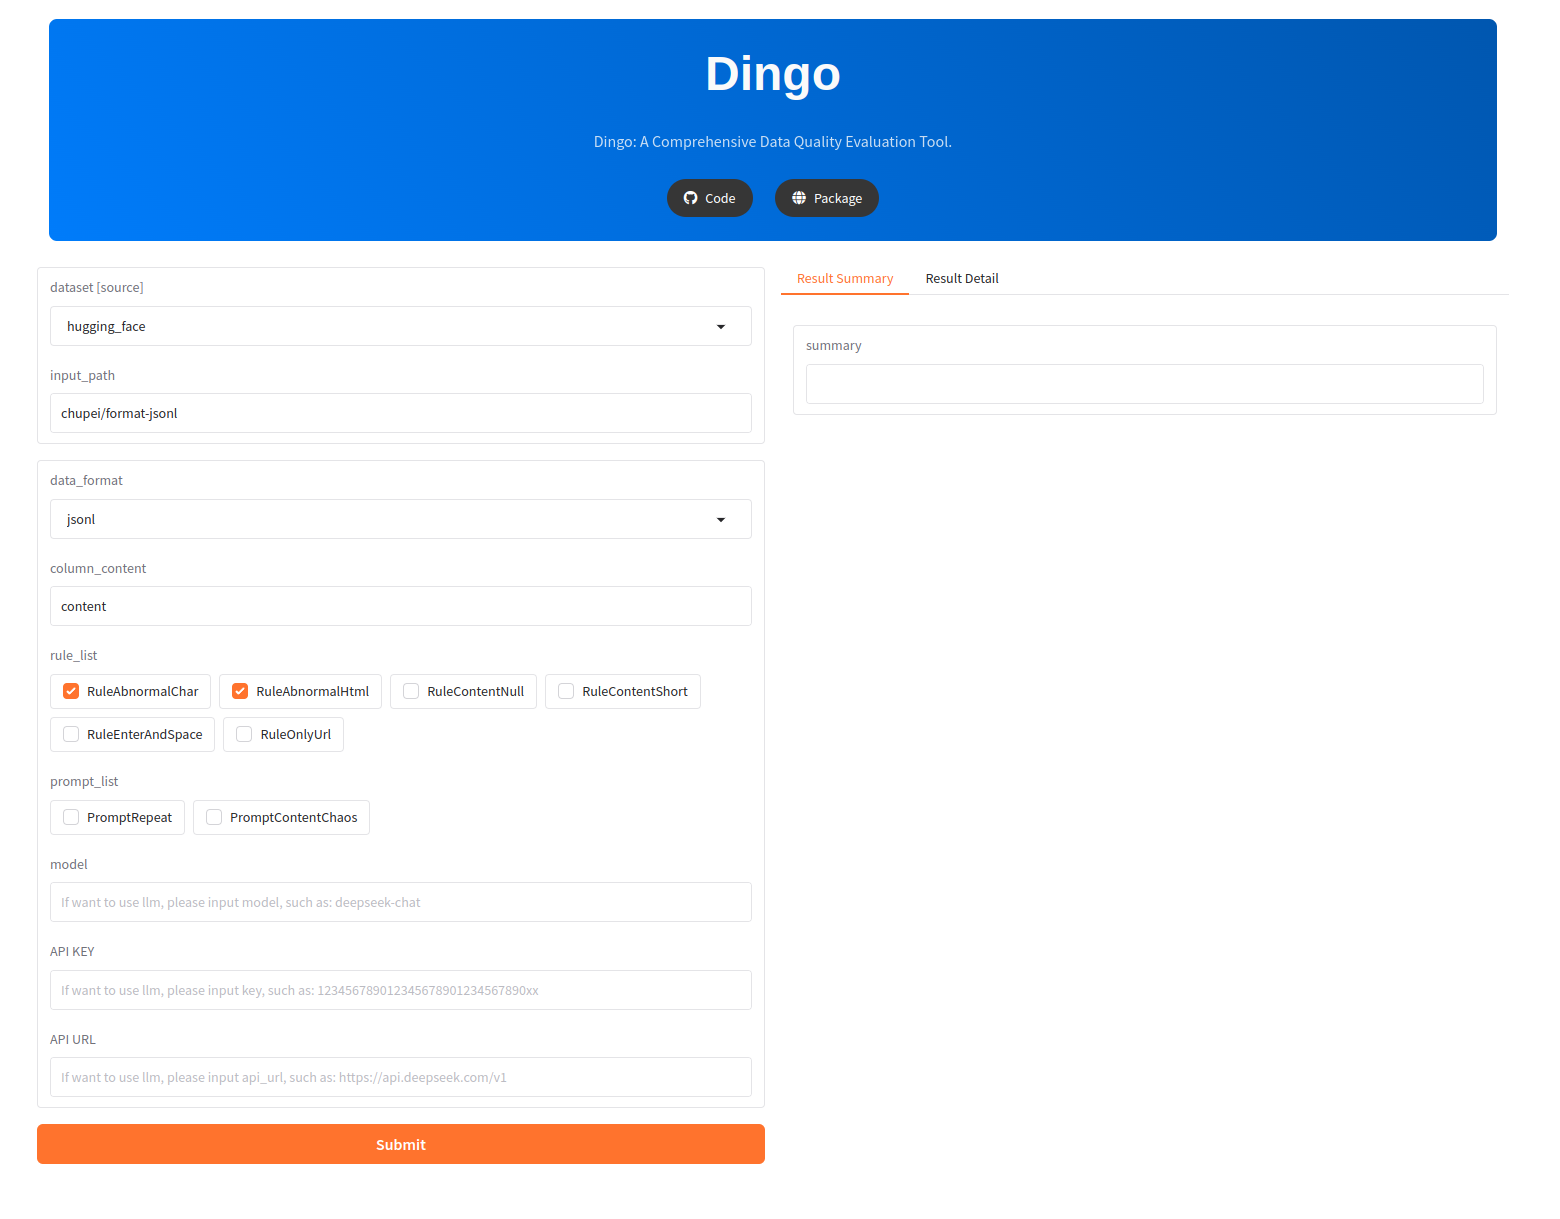
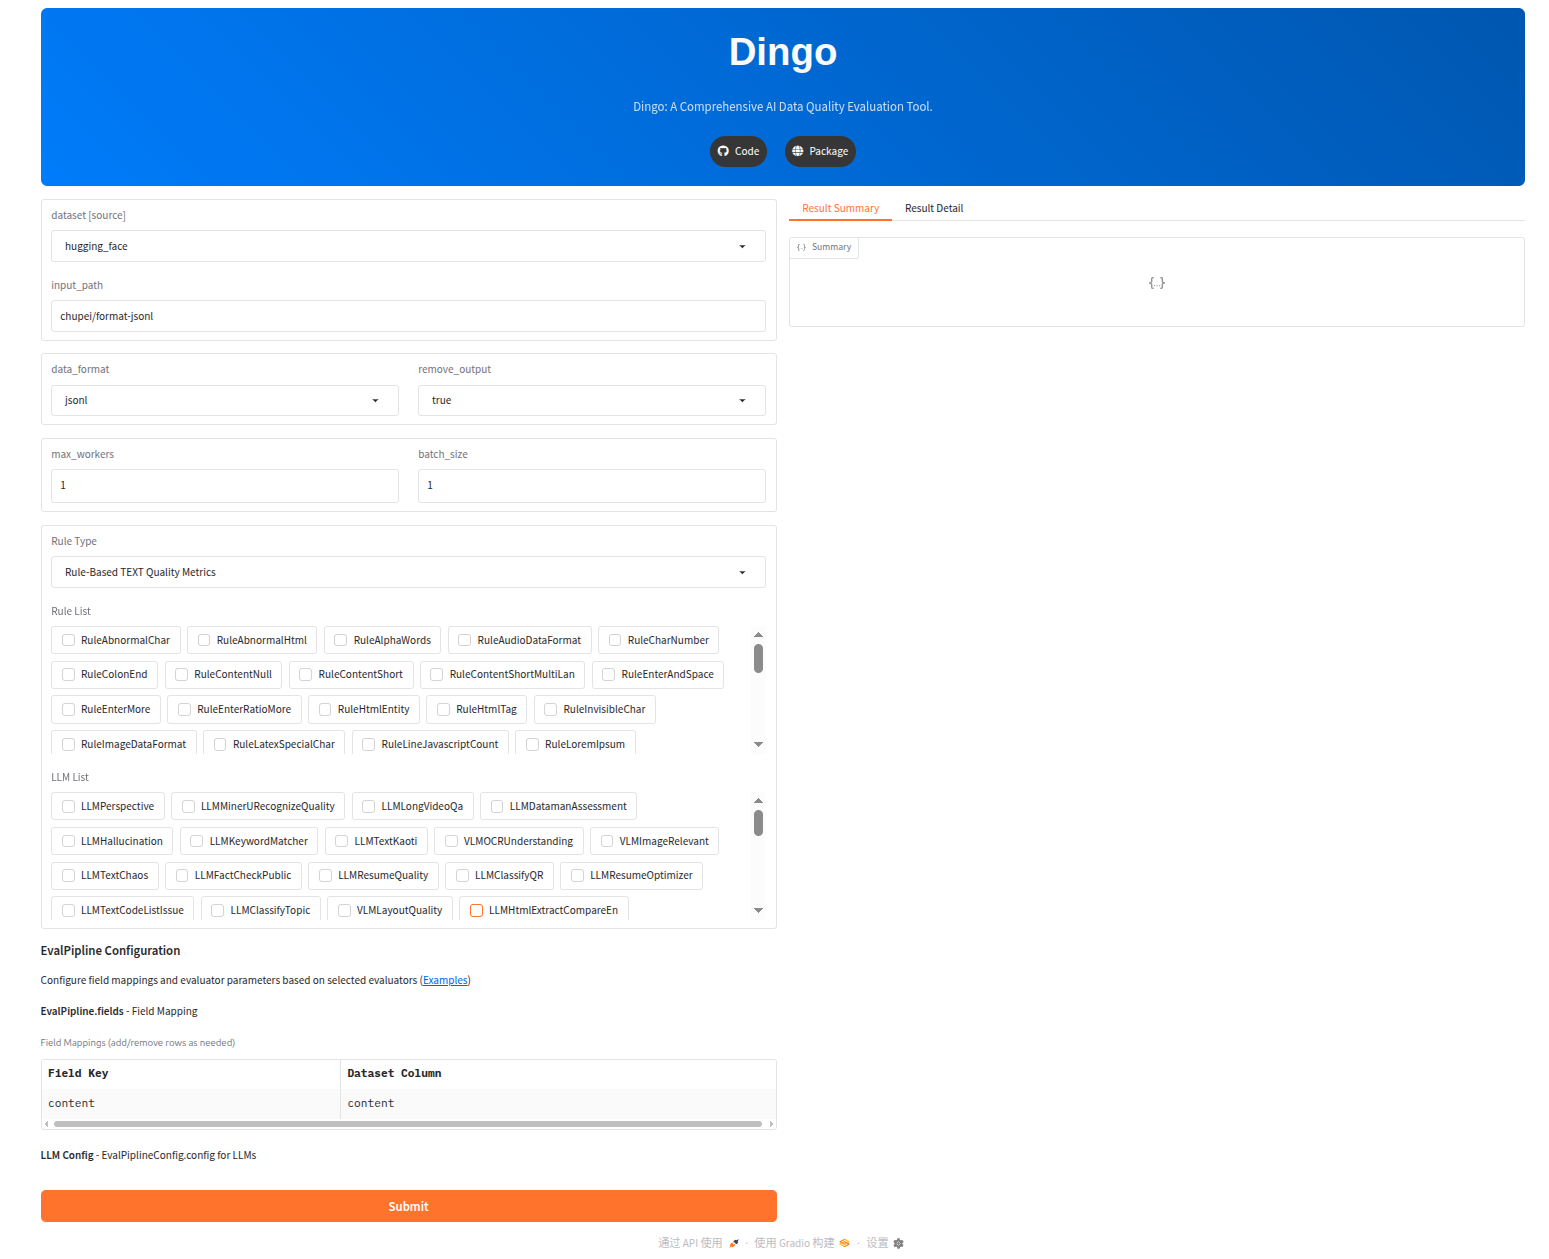
feat: update gradio image in readme, (#308)
add limit of label in gradio

diff --git a/app_gradio/header.html b/app_gradio/header.html
@@ -27,6 +27,11 @@
     a {
       text-decoration: none;
     }
+    /* 限制 Rule List 和 LLM List 的高度 */
+    .limited-height-checkboxgroup .wrap {
+      max-height: 160px !important;
+      overflow-y: auto !important;
+    }
   </style></head>
 
   <body>

diff --git a/app_gradio/app.py b/app_gradio/app.py
@@ -213,7 +213,8 @@ def update_rule_list(rule_type_mapping, rule_type):
     return gr.CheckboxGroup(
         choices=rule_type_mapping.get(rule_type, []),
         value=[],
-        label="rule_list"
+        label="rule_list",
+        elem_classes="limited-height-checkboxgroup"
     )
 
 
@@ -388,12 +389,14 @@ if __name__ == '__main__':
                     )
                     rule_list = gr.CheckboxGroup(
                         choices=rule_type_mapping.get(rule_type_options[0], []),
-                        label="Rule List"
+                        label="Rule List",
+                        elem_classes="limited-height-checkboxgroup"
                     )
                     # LLM evaluator list
                     llm_list = gr.CheckboxGroup(
                         choices=llm_options,
-                        label="LLM List"
+                        label="LLM List",
+                        elem_classes="limited-height-checkboxgroup"
                     )
 
                     gr.Markdown("### EvalPipline Configuration")
